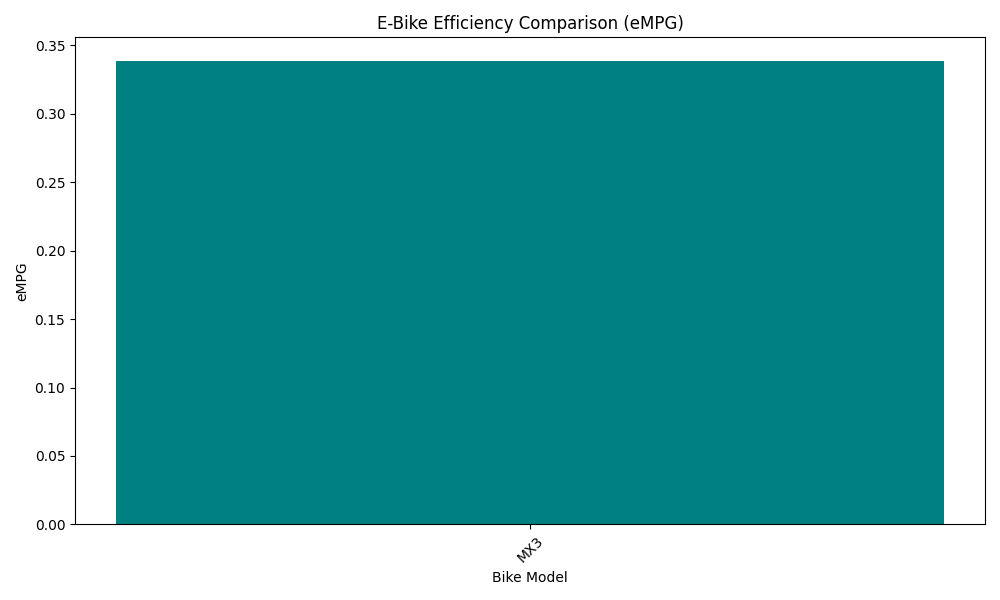
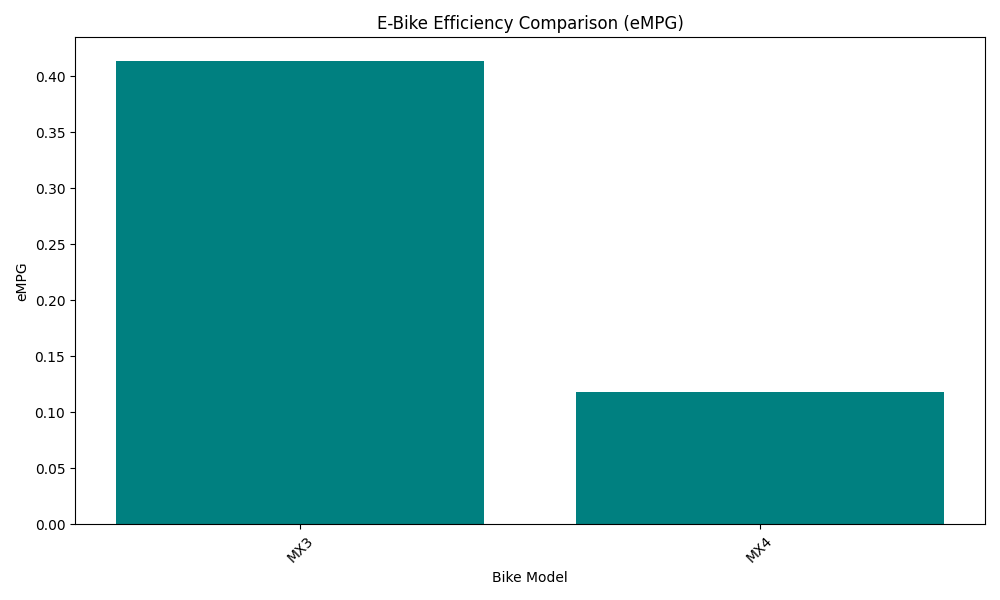
updated read me

diff --git a/README.md b/README.md
@@ -1,2 +1,43 @@
 # final_project_emoto_Tool
-e moto bike battery calculator tool
+# E-Bike Efficiency Calculator
+
+**Name:** Jack Parsons  
+**Class:** Python Programming Final Project  
+**Date:** June 12, 2025
+
+#Project Description
+
+The E-Bike Efficiency Calculator is a tool that estimates performance metrics for electric dirt bikes based on rider input and manufacturer specifications. The program lets users select from a list of popular e-bike models (like Talaria, Surron, and E Ride Pro), then calculates eMPG, estimated range, remaining battery life, and battery fatigue using mileage and charge cycle data.
+
+The program stores input and calculated results in a table using `pandas`, and visualizes efficiency and range comparisons with bar graphs using `matplotlib`.
+
+#Testing & Inputs
+
+To test the program, I entered different bike models including:
+- MX3 with 55 average miles and 195 charge cycles
+- Ultra Bee with 60 miles and 100 cycles
+- E Ride Pro SR with 40 miles and 250 cycles
+
+Each test generated accurate calculations and output a visual graph comparing the selected bikes' eMPG and range against stock range data.
+
+
+## Reflection
+
+This project helped me reinforce core Python skills like variables, user input, functions, loops, and conditional logic. I structured the code using modular functions in a separate file (`ebike_utils.py`) to keep things clean and readable.
+
+The biggest new concept I explored was using Pandas and Matplotlib. I learned how to build and modify a DataFrame from a list of dictionaries, and how to generate bar graphs from that data. Plotting the eMPG and comparing user range to manufacturer range made the project feel practical.
+
+One of the biggest challenges I faced was getting the plots to display and save correctly in GitHub Codespaces. With trial and error—and some help—I figured out that I needed to call `plt.savefig()` and manage figure layout using `plt.tight_layout()` to avoid cut off labels. It was frustrating at first but it felt great once it worked.
+
+---
+
+##  Final Output Includes:
+- Command line interface for user input
+- Multiple bike entries and comparisons
+- Auto calculations for range, eMPG, and battery health
+- Two bar graphs:
+  - eMPG Comparison
+  - Estimated vs Stock Range
+- All data summarized in a pandas table
+
+
